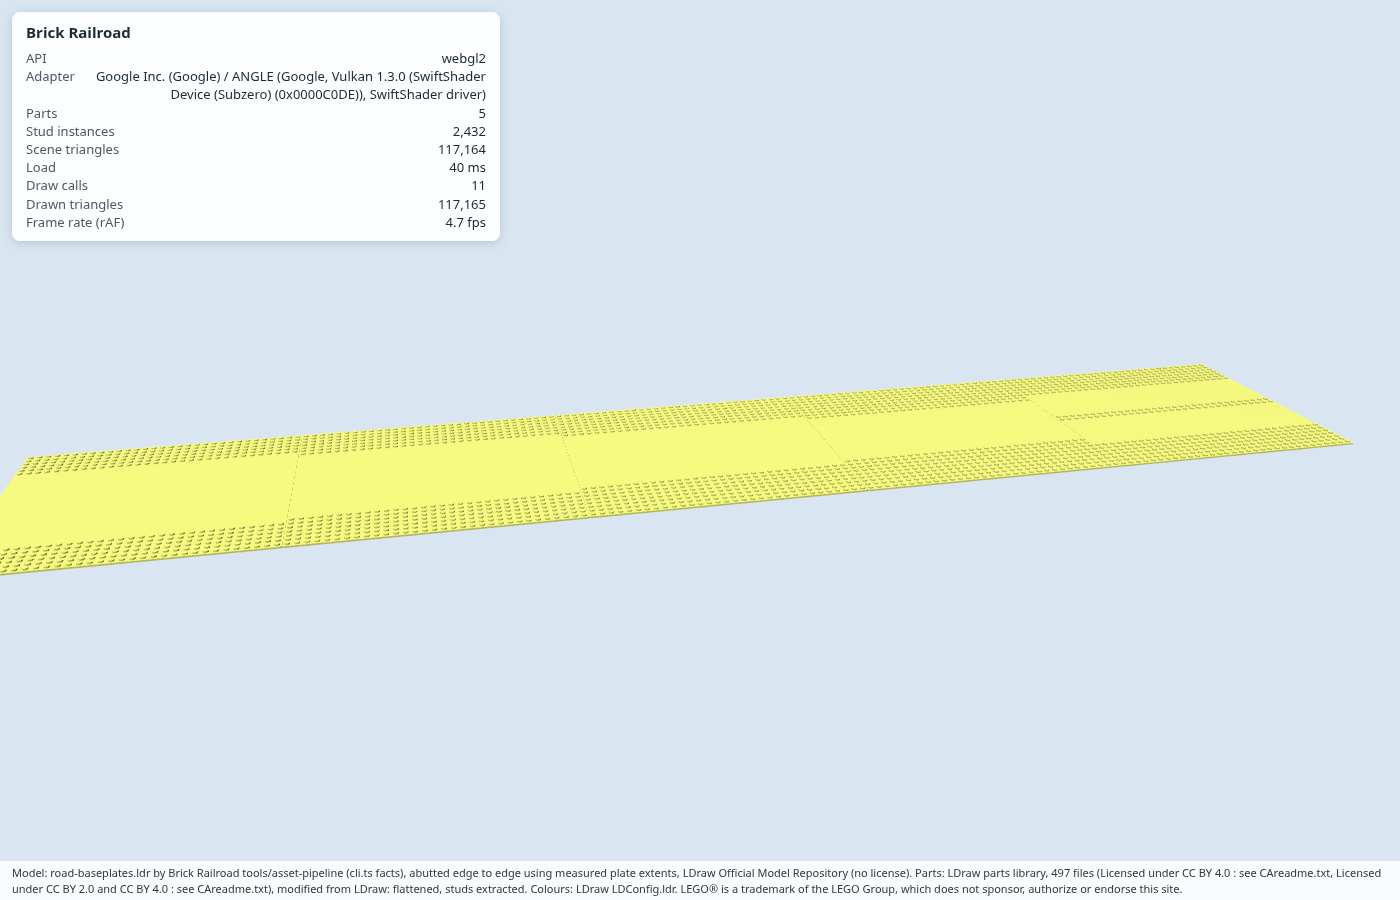
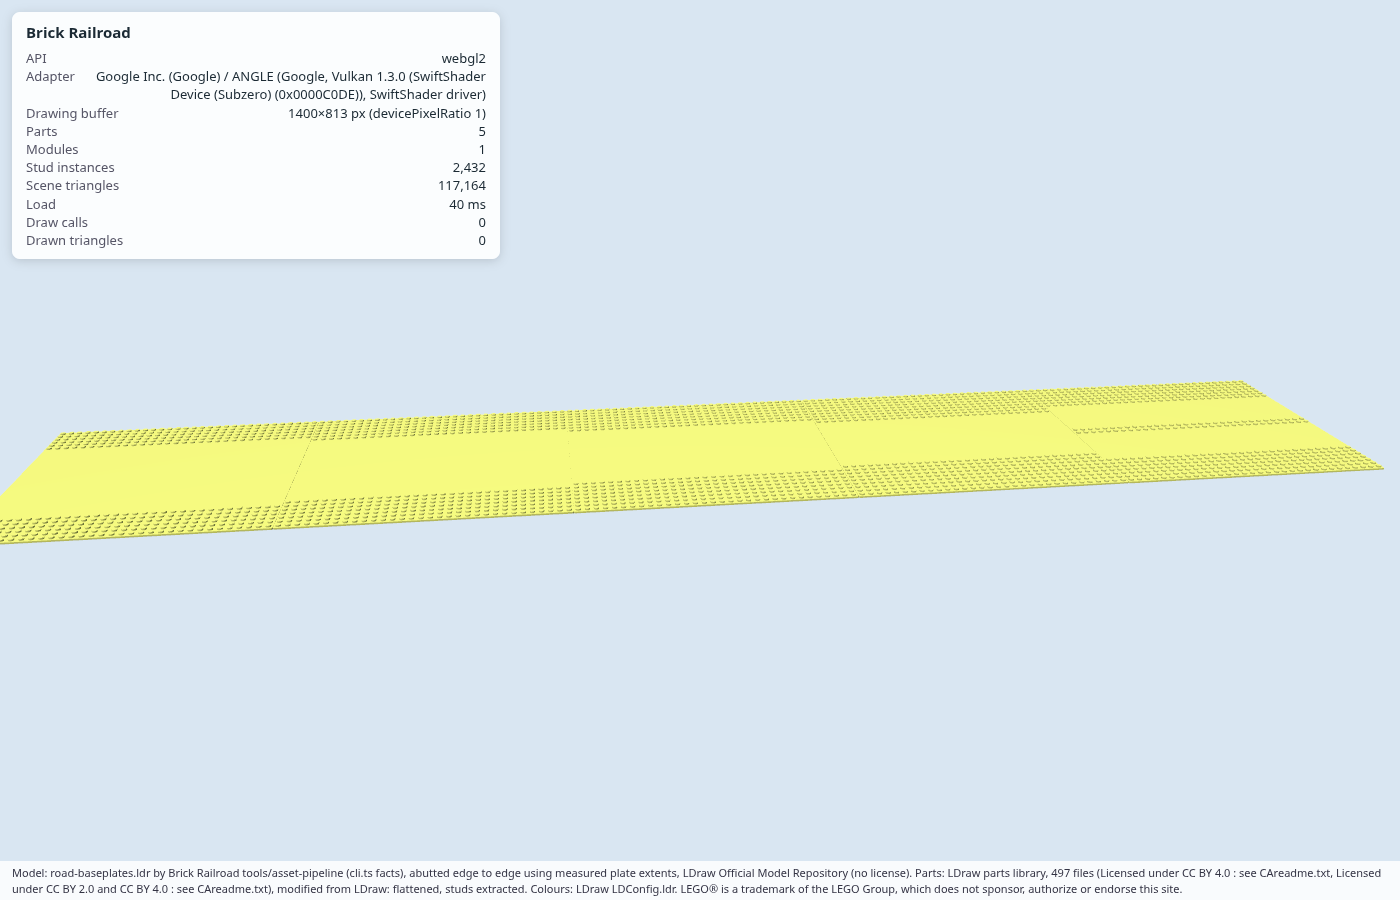
Fold critic non-blockers: ZETA16_ORDER and INHERIT_COLOR reuse, uniqueness over the whole search box, reconcile the import tolerance with §5.3 and real-parts

Changed region(s): [[0.0, 0.4044, 0.9829, 0.6533], [0.0, 0.1244, 0.3686, 0.3111]]

diff --git a/tools/asset-pipeline/src/track/cyclotomic.ts b/tools/asset-pipeline/src/track/cyclotomic.ts
@@ -2,7 +2,7 @@ export const ZETA16_ORDER = 16;
 const ZETA16_COEFFICIENT_COUNT = ZETA16_ORDER / 2;
 
 export const ZETA16_STEP_RADIANS = (2 * Math.PI) / ZETA16_ORDER;
-const SEARCH_BOUNDS = [4, 8, 16, 32, 64] as const;
+export const COEFFICIENT_BOUND = 64;
 
 export type Zeta16Coefficients = ReadonlyArray<bigint>;
 
@@ -14,8 +14,7 @@ interface PlanePoint {
 export interface FieldRepresentation {
   readonly coefficients: Zeta16Coefficients;
   readonly residual: number;
-  readonly bound: number;
-  readonly solutionsAtBound: number;
+  readonly solutionCount: number;
 }
 
 interface AxisHit {
@@ -69,7 +68,7 @@ function axisHits(
       for (let third = -bound; third <= bound; third += 1) {
         const irrational = first * b1 + second * b2 + third * b3;
         const rational = Math.round(target - irrational);
-        if (Math.abs(rational) > bound * 4) continue;
+        if (Math.abs(rational) > bound) continue;
         const residual = Math.abs(target - irrational - rational);
         if (residual <= tolerance) hits.push({ rational, first, second, third, residual });
       }
@@ -124,25 +123,21 @@ export function findZeta16Representation(
     Math.sin(2 * ZETA16_STEP_RADIANS),
     Math.sin(3 * ZETA16_STEP_RADIANS),
   ] as const;
-  for (const bound of SEARCH_BOUNDS) {
-    const realHits = axisHits(point.x, realBasis, bound, tolerance);
-    const imaginaryHits = axisHits(point.y, imaginaryBasis, bound, tolerance);
-    const solutions: Zeta16Coefficients[] = [];
-    for (const real of realHits) {
-      for (const imaginary of imaginaryHits) {
-        const coefficients = combine(real, imaginary);
-        if (coefficients !== undefined) solutions.push(coefficients);
-      }
+  const realHits = axisHits(point.x, realBasis, COEFFICIENT_BOUND, tolerance);
+  const imaginaryHits = axisHits(point.y, imaginaryBasis, COEFFICIENT_BOUND, tolerance);
+  const solutions: Zeta16Coefficients[] = [];
+  for (const real of realHits) {
+    for (const imaginary of imaginaryHits) {
+      const coefficients = combine(real, imaginary);
+      if (coefficients !== undefined) solutions.push(coefficients);
     }
-    const best = solutions.toSorted((a, b) => Number(l1Norm(a) - l1Norm(b)))[0];
-    if (best === undefined) continue;
-    const exact = zeta16ToPlane(best);
-    return {
-      coefficients: best,
-      residual: Math.hypot(exact.x - point.x, exact.y - point.y),
-      bound,
-      solutionsAtBound: solutions.length,
-    };
   }
-  return undefined;
+  const best = solutions.toSorted((p, q) => Number(l1Norm(p) - l1Norm(q)))[0];
+  if (best === undefined) return undefined;
+  const exact = zeta16ToPlane(best);
+  return {
+    coefficients: best,
+    residual: Math.hypot(exact.x - point.x, exact.y - point.y),
+    solutionCount: solutions.length,
+  };
 }

diff --git a/tools/asset-pipeline/src/verify/scenes.ts b/tools/asset-pipeline/src/verify/scenes.ts
@@ -1,5 +1,6 @@
 import { applyToPoint, IDENTITY, type Affine } from "../ldraw/affine.ts";
 import type { LdrawLibrary } from "../ldraw/library.ts";
+import { INHERIT_COLOR } from "../ldraw/walk.ts";
 import type { BaseplateMeasurement } from "./geometry.ts";
 import {
   findTrackEnds,
@@ -8,7 +9,6 @@ import {
   type TrackEndMarker,
 } from "../track/track-ends.ts";
 
-const MAIN_COLOR = 16;
 const DECIMALS = 6;
 const SCENE_AUTHOR = "Brick Railroad tools/asset-pipeline (cli.ts facts)";
 const STRAIGHTS_AFTER_SWITCH = 2;
@@ -54,7 +54,7 @@ function formatNumber(value: number): string {
 function toLdraw(title: string, method: string, placements: ReadonlyArray<ScenePlacement>): string {
   const lines = placements.map(({ part, transform }) => {
     const [a, b, c, d, e, f, g, h, i, x, y, z] = transform;
-    return [1, MAIN_COLOR, x, y, z, a, b, c, d, e, f, g, h, i]
+    return [1, INHERIT_COLOR, x, y, z, a, b, c, d, e, f, g, h, i]
       .map((value) => formatNumber(value))
       .concat(`${part}.dat`)
       .join(" ");

diff --git a/tools/asset-pipeline/src/track/track-ends.ts b/tools/asset-pipeline/src/track/track-ends.ts
@@ -43,15 +43,13 @@ export interface RelativeTrackEnd {
 
 interface FieldSearchSummary {
   readonly bestResidualLdu: number;
-  readonly bound: number;
-  readonly solutionsAtBound: number;
+  readonly solutionCount: number;
 }
 
 function summarize(field: FieldRepresentation): FieldSearchSummary {
   return {
     bestResidualLdu: field.residual * LDU_PER_STUD,
-    bound: field.bound,
-    solutionsAtBound: field.solutionsAtBound,
+    solutionCount: field.solutionCount,
   };
 }
 
@@ -132,7 +130,7 @@ export function relativeToEntry(ends: ReadonlyArray<TrackEnd>): ReadonlyArray<Re
     const field = findZeta16Representation({ x: xStuds, y: zStuds }, toleranceLdu / LDU_PER_STUD);
     const certified =
       field !== undefined &&
-      field.solutionsAtBound === 1 &&
+      field.solutionCount === 1 &&
       field.residual * LDU_PER_STUD <= CERTIFIED_RESIDUAL_LIMIT_LDU;
     return {
       marker: end.marker,

diff --git a/tools/asset-pipeline/src/verify/geometry.ts b/tools/asset-pipeline/src/verify/geometry.ts
@@ -261,7 +261,8 @@ function arcFromEnds(
   if (ends.length !== 2 || first === undefined || second === undefined || exit === undefined) {
     return null;
   }
-  const turnSteps = exit.headingSteps > 8 ? exit.headingSteps - 16 : exit.headingSteps;
+  const turnSteps =
+    exit.headingSteps > ZETA16_ORDER / 2 ? exit.headingSteps - ZETA16_ORDER : exit.headingSteps;
   if (turnSteps === 0) return null;
   const chordLdu = Math.hypot(second.x - first.x, second.z - first.z);
   const halfTurn = (Math.abs(turnSteps) * ZETA16_STEP_RADIANS) / 2;

diff --git a/docs/verified-facts.md b/docs/verified-facts.md
@@ -41,15 +41,15 @@ All geometry is measured at the bundle's pin, from the `audit` closure that `run
 
 Track ends are the origins of the end-sleeper sub-files listed in `tools/asset-pipeline/src/track/track-end-markers.json`, with the outward direction taken from each placement's matrix. The report checks every declared outward direction against the part's bounds (all agree), and the LDCad `traintrk` snaps against the marker origins (they coincide).
 
-Relative poses are measured from the end with the least x, rotated so that its inward direction is +x. They're written in studs as ℤ[ζ₁₆] coefficients (c₀…c₇) of Σ cₖζᵏ, with x → Re and z → Im. A pose is **certified** under the owner's rule: certified iff residual ≤ 0.0005 LDU (half the last decimal of 3-decimal LDraw data). The residual is measured against a candidate, which is the unique coefficient vector with |c| ≤ 64 found within one unit of the file's last printed decimal; with no candidate, or more than one, there is nothing to certify. `geometry.json` records coefficients only for certified ends; for the others it records the search result and `null`.
+Relative poses are measured from the end with the least x, rotated so that its inward direction is +x. They're written in studs as ℤ[ζ₁₆] coefficients (c₀…c₇) of Σ cₖζᵏ, with x → Re and z → Im. A pose is **certified** under the project rule (decided by the project, delegated by the owner, 2026-11-16): certified iff residual ≤ 0.0005 LDU, half the last decimal of 3-decimal LDraw data. The residual is measured against a candidate, which must be the only coefficient vector within one unit of the file's last printed decimal in the search box |c₀|, |c₄| ≤ 64 and |cₖ ± c₈₋ₖ| ≤ 64 (k = 1…3). With no candidate, or more than one, there is nothing to certify. `geometry.json` records coefficients only for certified ends; for the others it records the search result and `null`.
 
 The same command writes two LDraw scenes. `docs/verified-facts/scenes/switch-then-reversed-curve.ldr` places its parts from the measured track-end poses, with placement rotations snapped to the 11.25° grid. `docs/verified-facts/scenes/road-baseplates.ldr` abuts the plates edge to edge using their measured body extents (`baseplates[].zExtent`). Both are listed under `palette.json` `models`, so the bundle build bakes them like any model, and the app renders them at `/?model=switch-then-reversed-curve` and `/?model=road-baseplates`. The screenshots in `docs/verified-facts/evidence/` were taken there with the WebGL2 backend. Parts use colour 16 (LDConfig main colour), because no produced colour is claimed.
 
 | Claim | Verdict | Value | Source | Script | §11 item | Date |
 |---|---|---|---|---|---|---|
 | The straights 53401 and 74746 are 16 studs end to end | VERIFIED | Ends at x = ±160 LDU; relative exit 16ζ⁰, heading 0, exact | `parts/53401.dat`, `parts/2865a.dat` | `geometry.ts` (`reportTrackEnds`) | 4 | 2026-11-16 |
-| The 9V curve 74747 is an exact R40, 22.5° arc in ℤ[ζ₁₆] | VERIFIED | Relative exit (15.307337, −3.044819) studs = 40ζ³ − 40ζ⁴, heading −1 step, residual 7.7e-7 LDU, certified (the only candidate within the file's 6-decimal precision, |c| ≤ 64; residual ≤ 0.0005 LDU). Chord 312.144516 LDU gives R = 800.000002 LDU | `parts/2867a.dat` (`s\2867as03`/`as04` at ±156.072258, −15.371776) | `geometry.ts` | 4 | 2026-11-16 |
-| The plastic curve 53400 is an R40, 22.5° arc | VERIFIED (radius); field test INCONCLUSIVE at this precision | Both ends are 799.99992 LDU from the file's own `!HELP The rotation point is at 0/0/-800`; turn 22.5°. Its positions have 3 decimals (156.073, −15.372), so the only candidate within their precision is a high-norm vector whose residual, 8.65e-4 LDU, exceeds the 0.0005 LDU rule. No coefficients are recorded; the positions agree with the certified 9V curve to 7.4e-4 LDU | `parts/53400.dat` | `geometry.ts` (`arcFromEnds`) | 4 | 2026-11-16 |
+| The 9V curve 74747 is an exact R40, 22.5° arc in ℤ[ζ₁₆] | VERIFIED | Relative exit (15.307337, −3.044819) studs = 40ζ³ − 40ζ⁴, heading −1 step, residual 7.7e-7 LDU, certified (the only candidate in the search box within the file's 6-decimal precision; residual ≤ 0.0005 LDU). Chord 312.144516 LDU gives R = 800.000002 LDU | `parts/2867a.dat` (`s\2867as03`/`as04` at ±156.072258, −15.371776) | `geometry.ts` | 4 | 2026-11-16 |
+| The plastic curve 53400 is an R40, 22.5° arc | VERIFIED (radius); field test INCONCLUSIVE at this precision | Both ends are 799.99992 LDU from the file's own `!HELP The rotation point is at 0/0/-800`; turn 22.5°. Its positions have 3 decimals (156.073, −15.372), so 3,781 vectors in the search box fit the exit within that precision (4,225 even for the entry), and with no unique candidate there is nothing to certify. No coefficients are recorded; the positions agree with the certified 9V curve to 7.4e-4 LDU | `parts/53400.dat` | `geometry.ts` (`arcFromEnds`) | 4 | 2026-11-16 |
 | 9V switch geometry: 32-stud straight route, diverging end in ℤ[ζ₁₆] | VERIFIED | Entry (0, 0); straight exit 32ζ⁰, heading 0. Right switch (75541) diverging end (32.692663, −12.955181) studs = 48 − 40ζ³ + 24ζ⁴, heading −22.5°. Left switch (75542) is the mirror: 48 − 24ζ⁴ + 40ζ⁵, heading +22.5°. Residual 8.9e-7 LDU, certified (unique candidate, residual ≤ 0.0005 LDU) | `parts/2859.dat` (`s\2867as04` at 333.853255, −259.103626), `parts/2861.dat` | `geometry.ts` | 4 | 2026-11-16 |
 | A 9V switch followed by a reversed R40 curve gives a parallel track at an integer offset | VERIFIED (exact, derived) | Derived in ℤ[ζ₁₆] from the two certified parts, not from a numeric fit: (48 − 40ζ³ + 24ζ⁴) + ζ¹⁵ · mirror(40ζ³ − 40ζ⁴) = **48 − 16ζ⁴**, heading 0. The parallel track is **16 studs (320 LDU)** from the straight route and 48 studs along it; the left switch gives 48 + 16ζ⁴. The numeric composition of the measured decimals lands 1.66e-6 LDU from that exact point. That's within the 0.0005 LDU rule, but the result rests on the algebra, not on that number; the gap is the 6-decimal rounding of the two input files | the two certified poses above | `geometry.ts` (`composeDivergingWithCurve`, exact ring ops in `cyclotomic.ts`) | 4 | 2026-11-16 |
 | The 90° crossing 32087 has four ends on the 8-stud cross | VERIFIED | Relative ends (16, 0) heading 0; (8, 8) heading 4 steps; (8, −8) heading 12 steps; exact integers | `parts/32087.dat` (`s\2865s04` ×4 at (±160, 0), (0, ±160)) | `geometry.ts` | 4 | 2026-11-16 |

diff --git a/docs/architecture.md b/docs/architecture.md
@@ -175,6 +175,7 @@ This comes from connection rules §4.3, generalized for D3.
 - Two track ends **join if and only if their coefficient vectors are identical and their headings differ by N/2.** There is no epsilon.
 - When a layout mixes N = 16 and N = 32, poses embed into ℤ[ζ₃₂] through ζ₁₆ = ζ₃₂², so adding fan track later doesn't migrate existing layouts.
 - Parts whose poses fall outside the field get an exact algebraic pose from their data, compared with ε = 1e-6 LDU to absorb representation error only. Some switches may fall in this group, and flex track does (P1+).
+- **Importing poses from LDraw decimals (project decision, delegated by the owner, 2026-11-16).** LDraw prints connector poses with 3 to 6 decimals, so a pose read from a file is identified with a field element when its residual to the unique ℤ[ζ₁₆] candidate is ≤ 0.0005 LDU, half the last decimal of 3-decimal data. The candidate must be the only one in the search box (|c₀|, |c₄| ≤ 64 and |cₖ ± c₈₋ₖ| ≤ 64) within the file's printed precision. This is a data-identification tolerance used once, at import. It isn't physical slack and isn't the join ε: joins still compare the exact coefficients.
 - Every track part's connector poses are **imported from data and tested against the field at build time. Nothing is hand-coded.**
 
 ### 5.4 Profiles
@@ -332,7 +333,7 @@ Layouts reference catalog items by namespaced id and imported models by hash, an
    *Status 2026-11-16 (`docs/verified-facts.md`, at the bundle's pin):* the 9V straight, curve, switches (75541/75542) and crossing (32087), the 6-wide plastic straight and curve (53401/53400), the classic road baseplates and the baseplates are all CA and official. **Not cleared:** the 6-wide plastic switches 53404/53407 aren't in the official library. No 6-wide plastic crossing and no 60304-style road plate exists in LDraw under any title we could find, and identifying them needs Rebrickable, which is blocked. These need a replacement plan.
 2. The current LDraw parts count and the CC BY 2.0 / CC BY 4.0 license split. *Cleared 2026-11-16 (manual read of the pinned tarball):* update 2026-10 has 37,151 files, 35,140 CC BY 4.0 and 2,011 dual-licensed.
 3. **Whether the LDCad shadow library covers** track, road plates, baseplates and Technic bricks, and that it really is CC BY-SA 4.0. *Cleared 2026-11-16:* it is CC BY-SA 4.0. Coverage is partial: track snaps exist only for 53400 and 32087, baseplates have stud primitives only, and Technic bricks are covered.
-4. The exact connector poses for both switches (the diverging end), the 90° crossing and the R40 curve, extracted from data and run through the field test. *Cleared 2026-11-16 for 9V track:* the R40 curve exit is 40ζ³ − 40ζ⁴ and the switch diverging end is 48 − 40ζ³ + 24ζ⁴ studs (mirrored for the left switch), both in ℤ[ζ₁₆]. A switch plus a reversed R40 gives a parallel track 16 studs over (48 − 16ζ⁴, derived exactly from the two certified parts). The 3-decimal plastic 53400 agrees within 1e-3 LDU but can't be certified, and the plastic switches aren't in the official library. **Owner rule (2026-11-16):** an imported pose is certified iff its residual to the unique ℤ[ζ₁₆] candidate is ≤ 0.0005 LDU, half the last decimal of 3-decimal LDraw data.
+4. The exact connector poses for both switches (the diverging end), the 90° crossing and the R40 curve, extracted from data and run through the field test. *Cleared 2026-11-16 for 9V track:* the R40 curve exit is 40ζ³ − 40ζ⁴ and the switch diverging end is 48 − 40ζ³ + 24ζ⁴ studs (mirrored for the left switch), both in ℤ[ζ₁₆]. A switch plus a reversed R40 gives a parallel track 16 studs over (48 − 16ζ⁴, derived exactly from the two certified parts). The 3-decimal plastic 53400 agrees within 1e-3 LDU but can't be certified, and the plastic switches aren't in the official library. **Project decision (delegated by the owner, 2026-11-16; see §5.3):** an imported pose is certified iff its residual to the unique ℤ[ζ₁₆] candidate is ≤ 0.0005 LDU, half the last decimal of 3-decimal LDraw data.
 5. Track gauge and rail spacing (the "6-stud" vs "about 37.5 mm" conflict), and the official track part numbers. *Cleared 2026-11-16:* the 53401 inner gauge is 37.52 mm with rail centres 5 studs apart, and the track is 8 studs wide, so "6-stud internal gauge" is refuted. The 9V parts are 74746/74747/75541/75542/32087 (2865/2867 are moved stubs).
 6. Baseplate thickness, which sets the height datum. *Cleared 2026-11-16:* 4 LDU (half a plate) as modelled; the top face is y = 0 in the part frame.
 7. Road plate geometry: size, clip connectors, lane and sidewalk widths, and stud zones. *Partly cleared 2026-11-16:* the classic 32×32 road baseplates have studless roadways of 20, 18, 16 and 14 studs (6-, 7-, 8- and 9-stud verges), and printed 44336 lanes are 176 LDU between lines. The 60304-era plates with clips aren't in LDraw.
